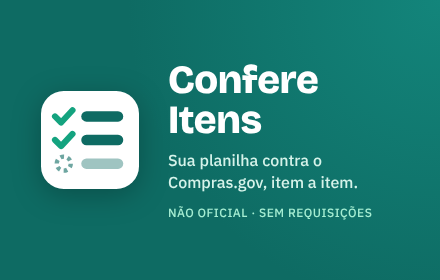
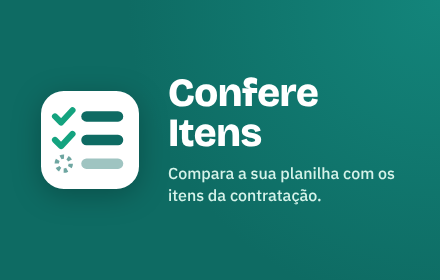
Simplifica o texto do bloco promocional
Troca a frase por "Compara a sua planilha com os itens da contratação"
e remove o subtítulo.

Claude-Session: https://claude.ai/code/session_0123jUaWSVHByPEQkHDFR7cM

Changed region(s): [[0.3841, 0.2286, 0.9159, 0.8]]

diff --git a/docs/loja/bloco-promocional.html b/docs/loja/bloco-promocional.html
@@ -12,7 +12,6 @@
   svg { width: 112px; height: 112px; filter: drop-shadow(0 6px 14px rgba(0,0,0,.25)); }
   h1 { font-family: "Bricolage Grotesque", "Segoe UI", sans-serif; font-weight: 800; font-size: 40px; line-height: 1; margin: 0 0 10px; letter-spacing: -.5px; }
   p { margin: 0; font-size: 16px; line-height: 1.35; color: #D6F3EA; }
-  small { display: block; margin-top: 12px; font-size: 12px; color: #A6EED3; letter-spacing: .04em; text-transform: uppercase; }
 </style>
 <svg viewBox="0 0 128 128">
   <rect x="8" y="8" width="112" height="112" rx="26" fill="#FFFFFF"/>
@@ -24,6 +23,5 @@
 </svg>
 <div>
   <h1>Confere Itens</h1>
-  <p>Sua planilha contra o Compras.gov, item a item.</p>
-  <small>Não oficial · sem requisições</small>
+  <p>Compara a sua planilha com os itens da contratação.</p>
 </div>
